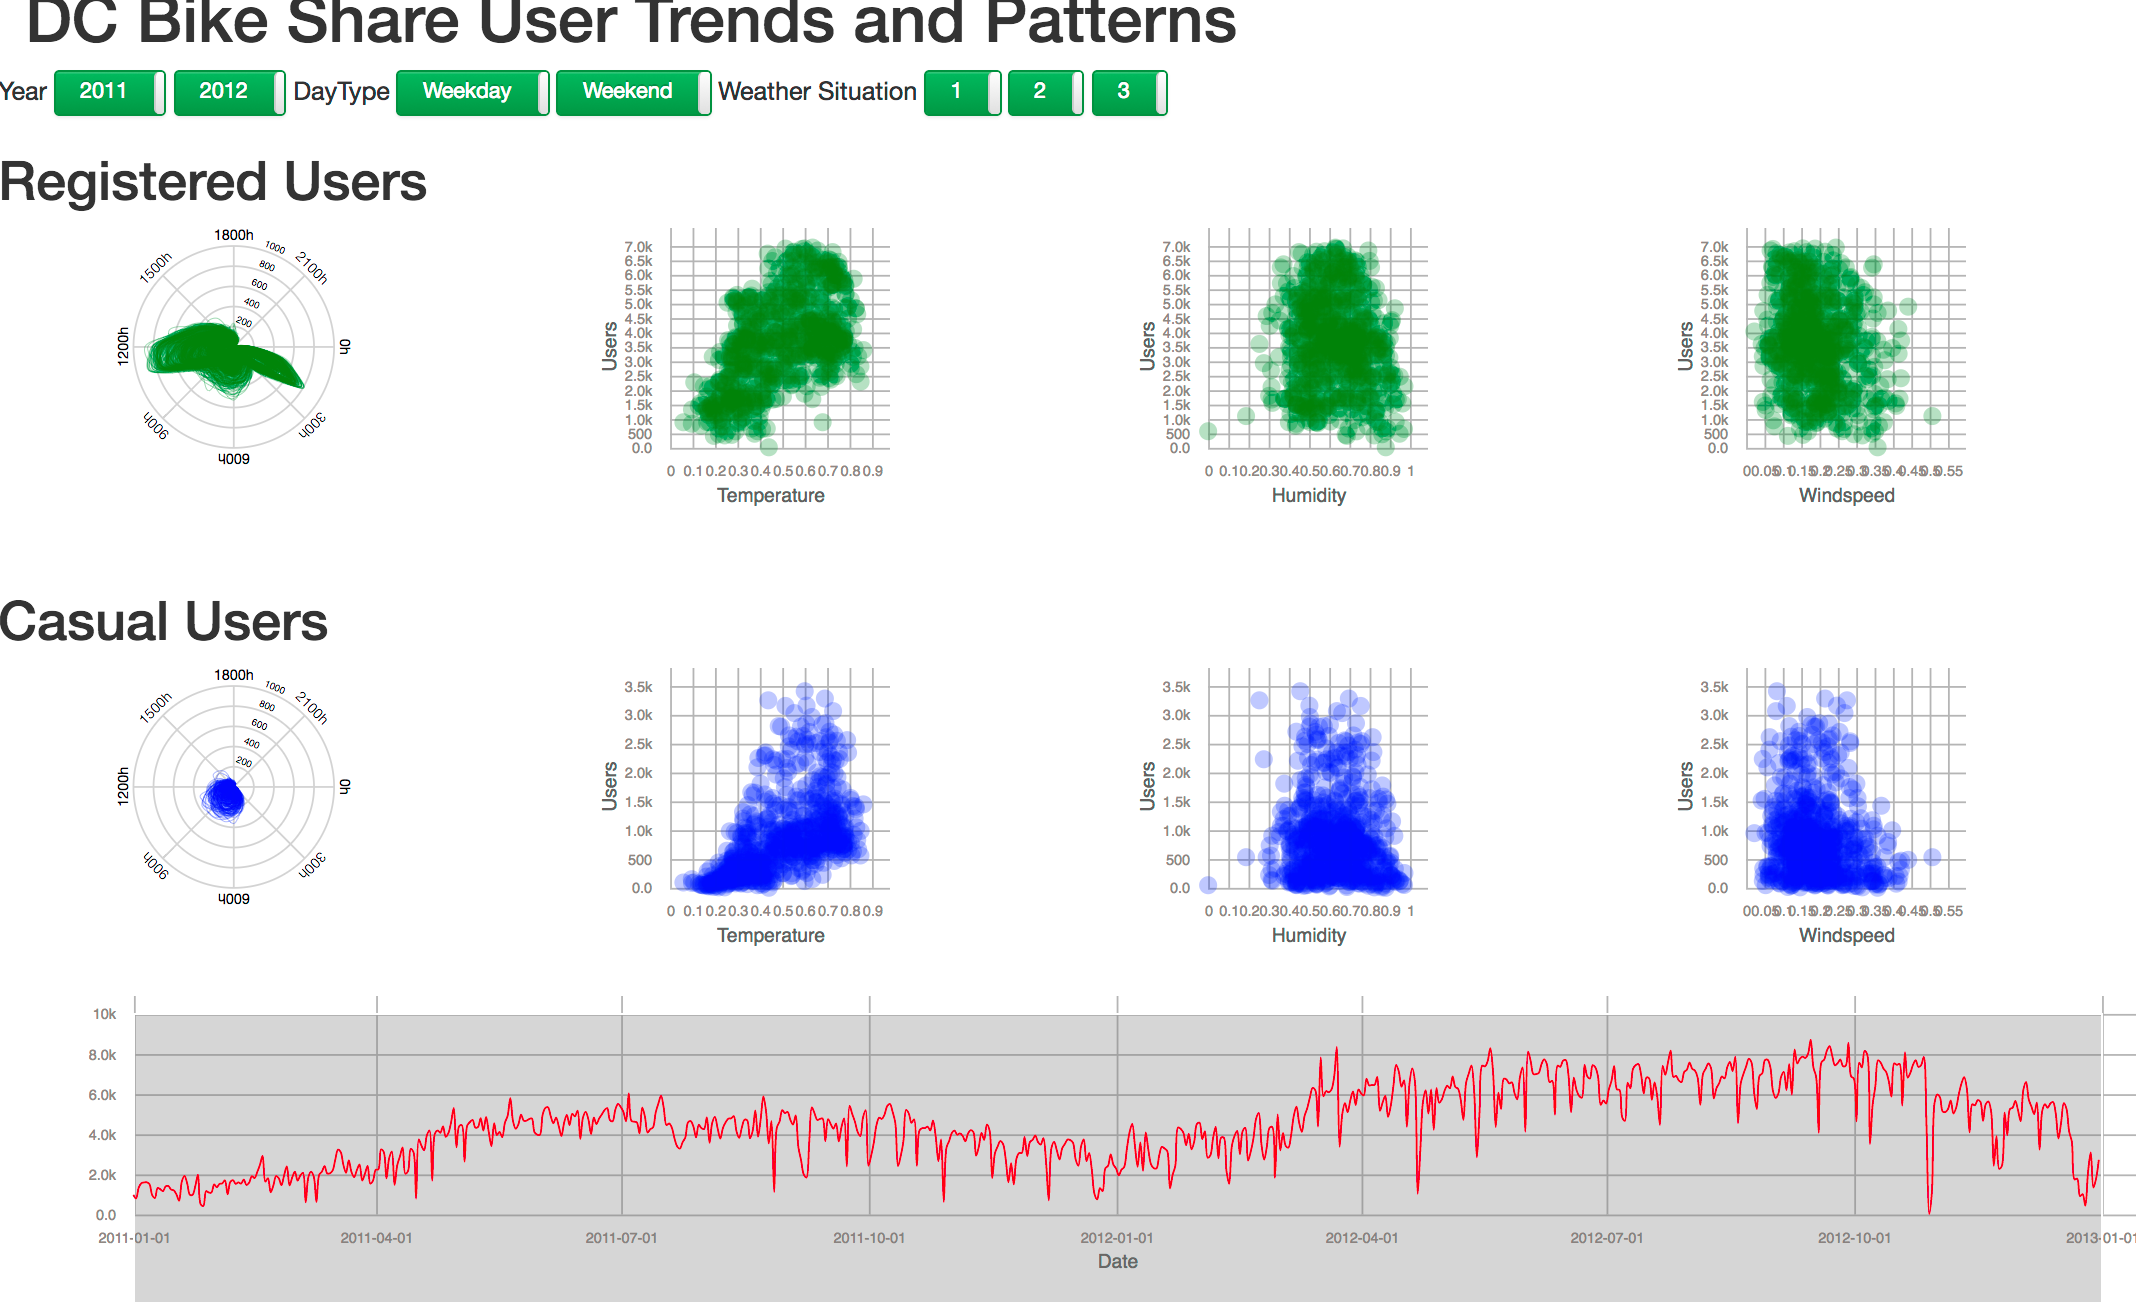
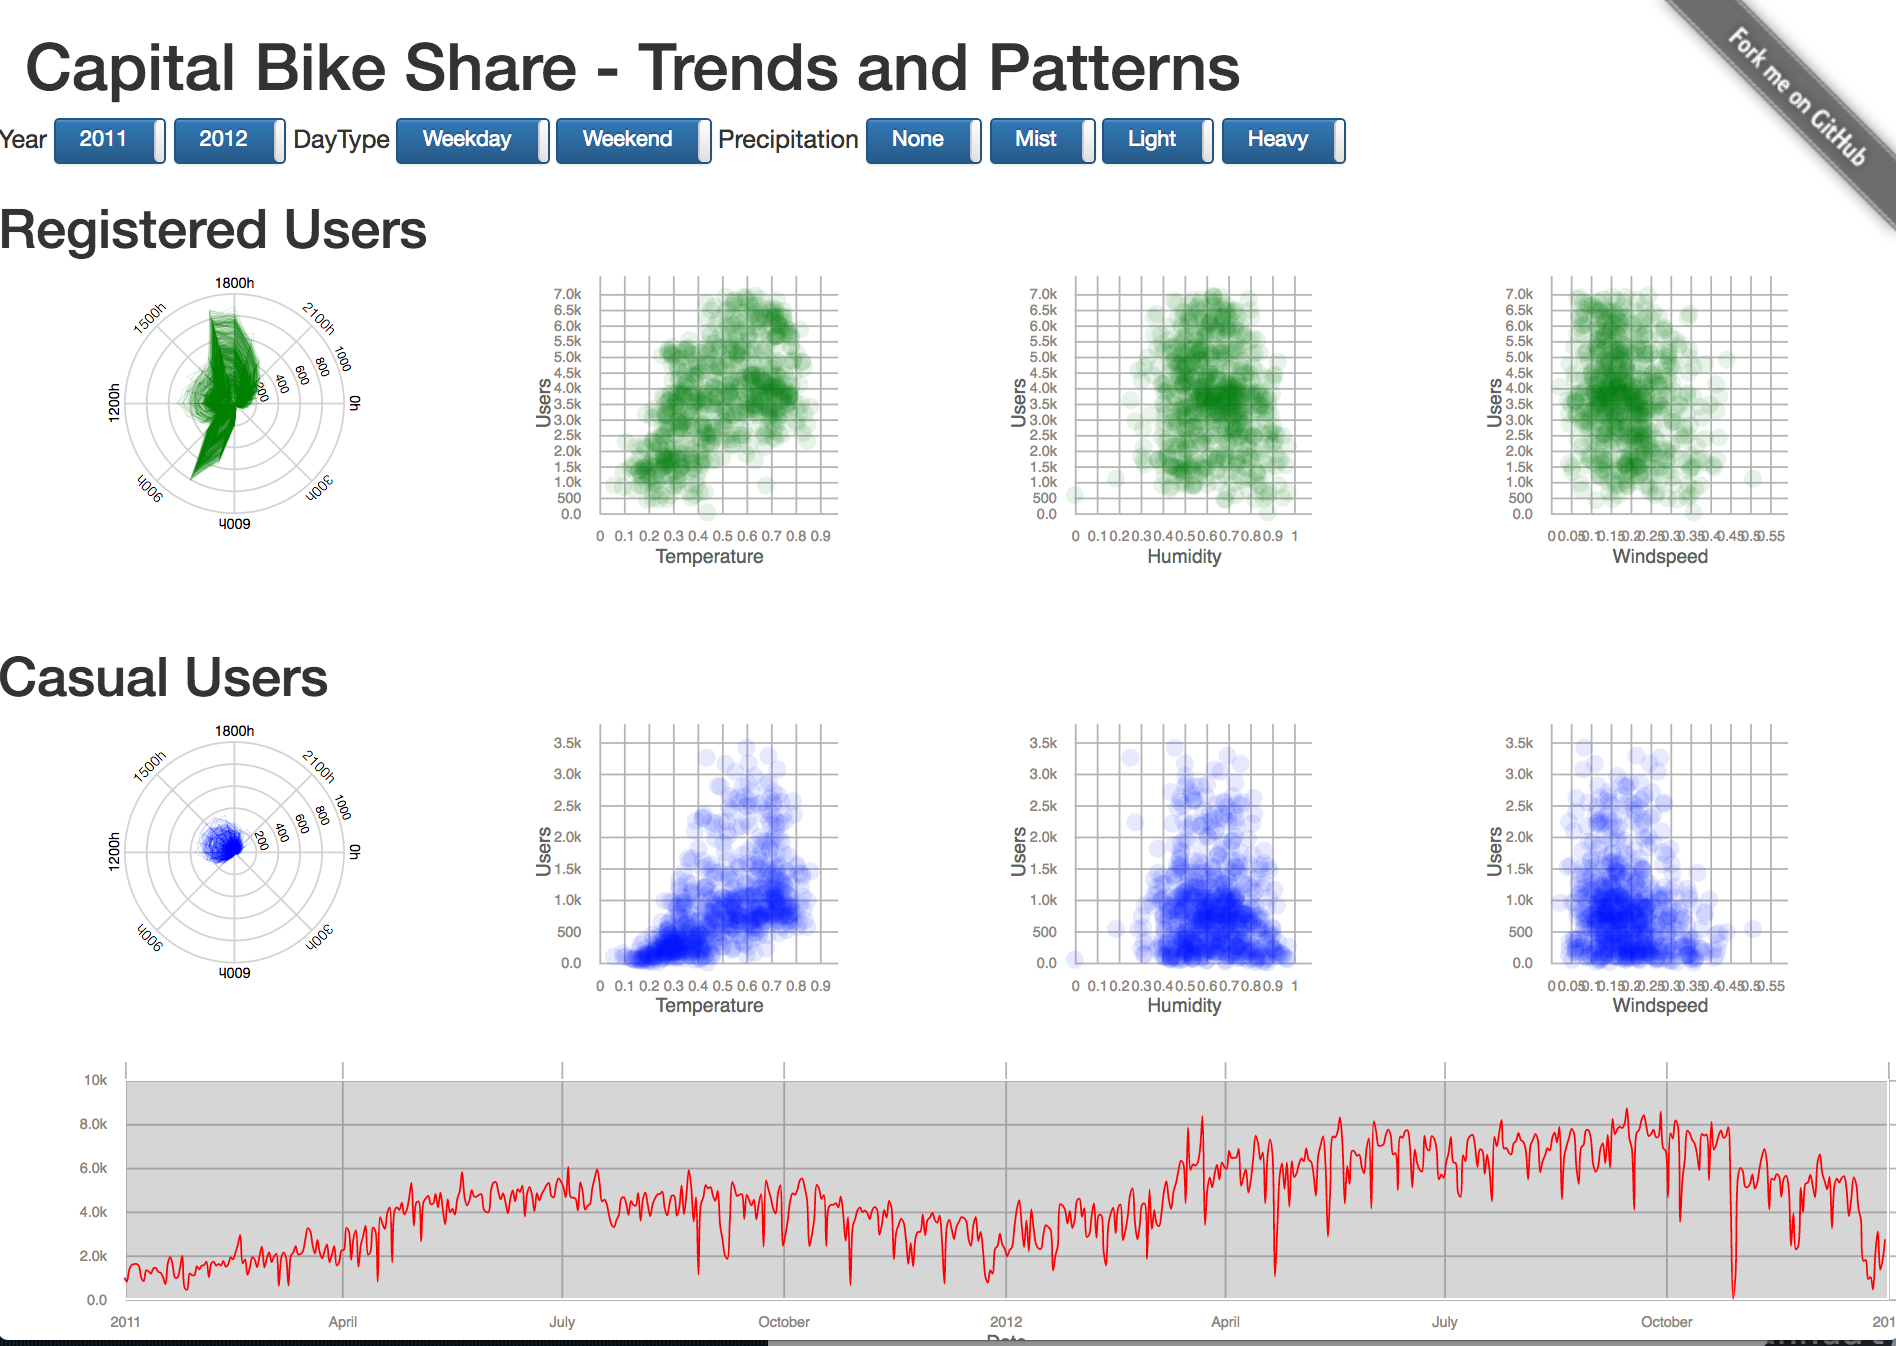
added final screenshots to images and updated links

diff --git a/README.md b/README.md
@@ -1,14 +1,18 @@
 
 Live Version (hosted on Github Pages):https://sajudson.github.io/dataviz-project/
 
+Video: PENDING
+
+
 # Introduction
 
-This is an exploratory visualization for a bike share system that is intended to assist in determine the factors that influence the number and type of users of the system at both daily and hourly intervals. It visualizes the impact of quantitative and qualitative attributes, including temperature, humidity and windspeed, day type, and weather conditions, on the number of daily and hour users.
+This is an exploratory visualization for a bike share system that is intended to assist in determining which factors  influence the number and type of users of the system at both daily and hourly intervals. It visualizes the impact of quantitative and qualitative attributes, including temperature, humidity and windspeed, day type, and weather conditions, on the number of daily and hour users.
 
-The techniques shown here can be applied to any multivariate time series data sets.
+The techniques shown here can be applied to other multivariate time series data sets.
 
 
-<img width="1065" alt="finalvis" src="https://user-images.githubusercontent.com/13242061/32617171-4355080a-c542-11e7-8f37-cee2e72047d5.png">
+![Layout](/images/visonLoadfinal.png)
+
 
 # The Data
 ## Capital Bike Share System Data
@@ -95,7 +99,8 @@ The final version of the visualization, shown below, follows the same basic layo
 - A group of toggle switch UI elements to control the filters for year, day type and weather situation appear in a row above the charts, and
 - A one dimensional brush appears the third row as part of the overview chart respectively.
 
-<img width="1065" alt="finalvis" src="https://user-images.githubusercontent.com/13242061/32617171-4355080a-c542-11e7-8f37-cee2e72047d5.png">
+![Layout](/images/visonLoadfinal.png)
+
 
 
 
@@ -110,10 +115,10 @@ The prototype plot was revised after the prototype layout was completed, with th
 
 
 ### Final
-In the final version, separate plots were used for each user type.
+In the final version, the plots were calibrated to align with the hourly tick marks and separate plots were used for each user type.
+![Radial Plots](/images/visRadialTSCasRegFinal.png)
 
-<img width="220" alt="visradialtscasfinal" src="https://user-images.githubusercontent.com/13242061/32615989-375f6548-c53f-11e7-8738-55af02add032.png">
-<img width="218" alt="visradialtsregfinal" src="https://user-images.githubusercontent.com/13242061/32615990-37789ec8-c53f-11e7-9dc9-6d6a3eff90c1.png">
+
 
 
 
@@ -130,7 +135,8 @@ The scatter plots are used to look for potential casual relationships between we
 ### Final
 The final version of the scatter plots is essentially unchanged from the prototype, with minor changes to point size and opacity.
 
-<img width="730" alt="final vis scatterplot - unfiltered - draft" src="https://user-images.githubusercontent.com/13242061/32503343-fd3cd1ce-c3aa-11e7-8c35-65feff4bf77a.png">
+![Scatter Plots](/images/visscatterfinal.png)
+
 
 ## Line chart overview with brush
 The ninth chart is a time series line chart that serves as an overview or context chart. It shows the total number of users per day by date over the two years of data in the dataset.
@@ -146,7 +152,7 @@ The prototype shows the casual and registered users as well as apparent temperat
 ### Final
 The final version  of the time series line chart (illustrated by the three chart sequence for registered users below) shows only the total number of users. This approach was chosen to make it easier to understand the overview chart, and because this information is not provided in any other chart.
 
-<img width="1414" alt="vislinechartoverviewfinal" src="https://user-images.githubusercontent.com/13242061/32615987-372afd3a-c53f-11e7-8ae5-eac9bee804c3.png">
+![Line Chart Overview with Brush](/images/vislinechartoverviewfinal.png)
 
 
 # The Interactions
@@ -157,18 +163,18 @@ The visualization uses three different and complementary interactions:
 
 Filtering by categorical variables (shown below) uses the  filter toggle switches at the top of page to select which data will be shown (toggle enable = green) and which will be hidden (toggle disabled = white). This enables the user to compare the impact of the these variables on the patterns and relationships shown in the detailed charts.
 
-<img width="1438" alt="visfilteredfinal" src="https://user-images.githubusercontent.com/13242061/32615986-37140a26-c53f-11e7-8ca0-70a528790e7e.png">
+![Filters Applied](/images/visfilteredfinal.png)
 
 The date range selection (shown below) uses the brush in the overview chart - dragging and dropping the edges of the brush filters out the data that is outside of the brush.
 
-<img width="1436" alt="visbrushfinal" src="https://user-images.githubusercontent.com/13242061/32616534-8ca3fb3a-c540-11e7-8aec-966a79ec0940.png">
+![Brush Applied for Date Selection](/images/visbrushfinal.png)
 
 
 Once a date range has been selected, dragging any point inside the brush allows the user to change the starting date of the data displayed in the detailed charts while leaving the duration of the date range unchanged. This allows the user to pan throughout the entire data range and see how patterns change over time.  
 
 The filters and brush elements can also be used together to apply the filters to specific date ranges selected by the brush (show below):
+![Filter & Brush Applied](/images/visfilteredbrushfinal.png)
 
-<img width="1438" alt="visfilteredbrushfinal" src="https://user-images.githubusercontent.com/13242061/32616543-92130cfa-c540-11e7-8769-54c378d634be.png">
 
 # Additional Information...
 ## known bugs and limitations
